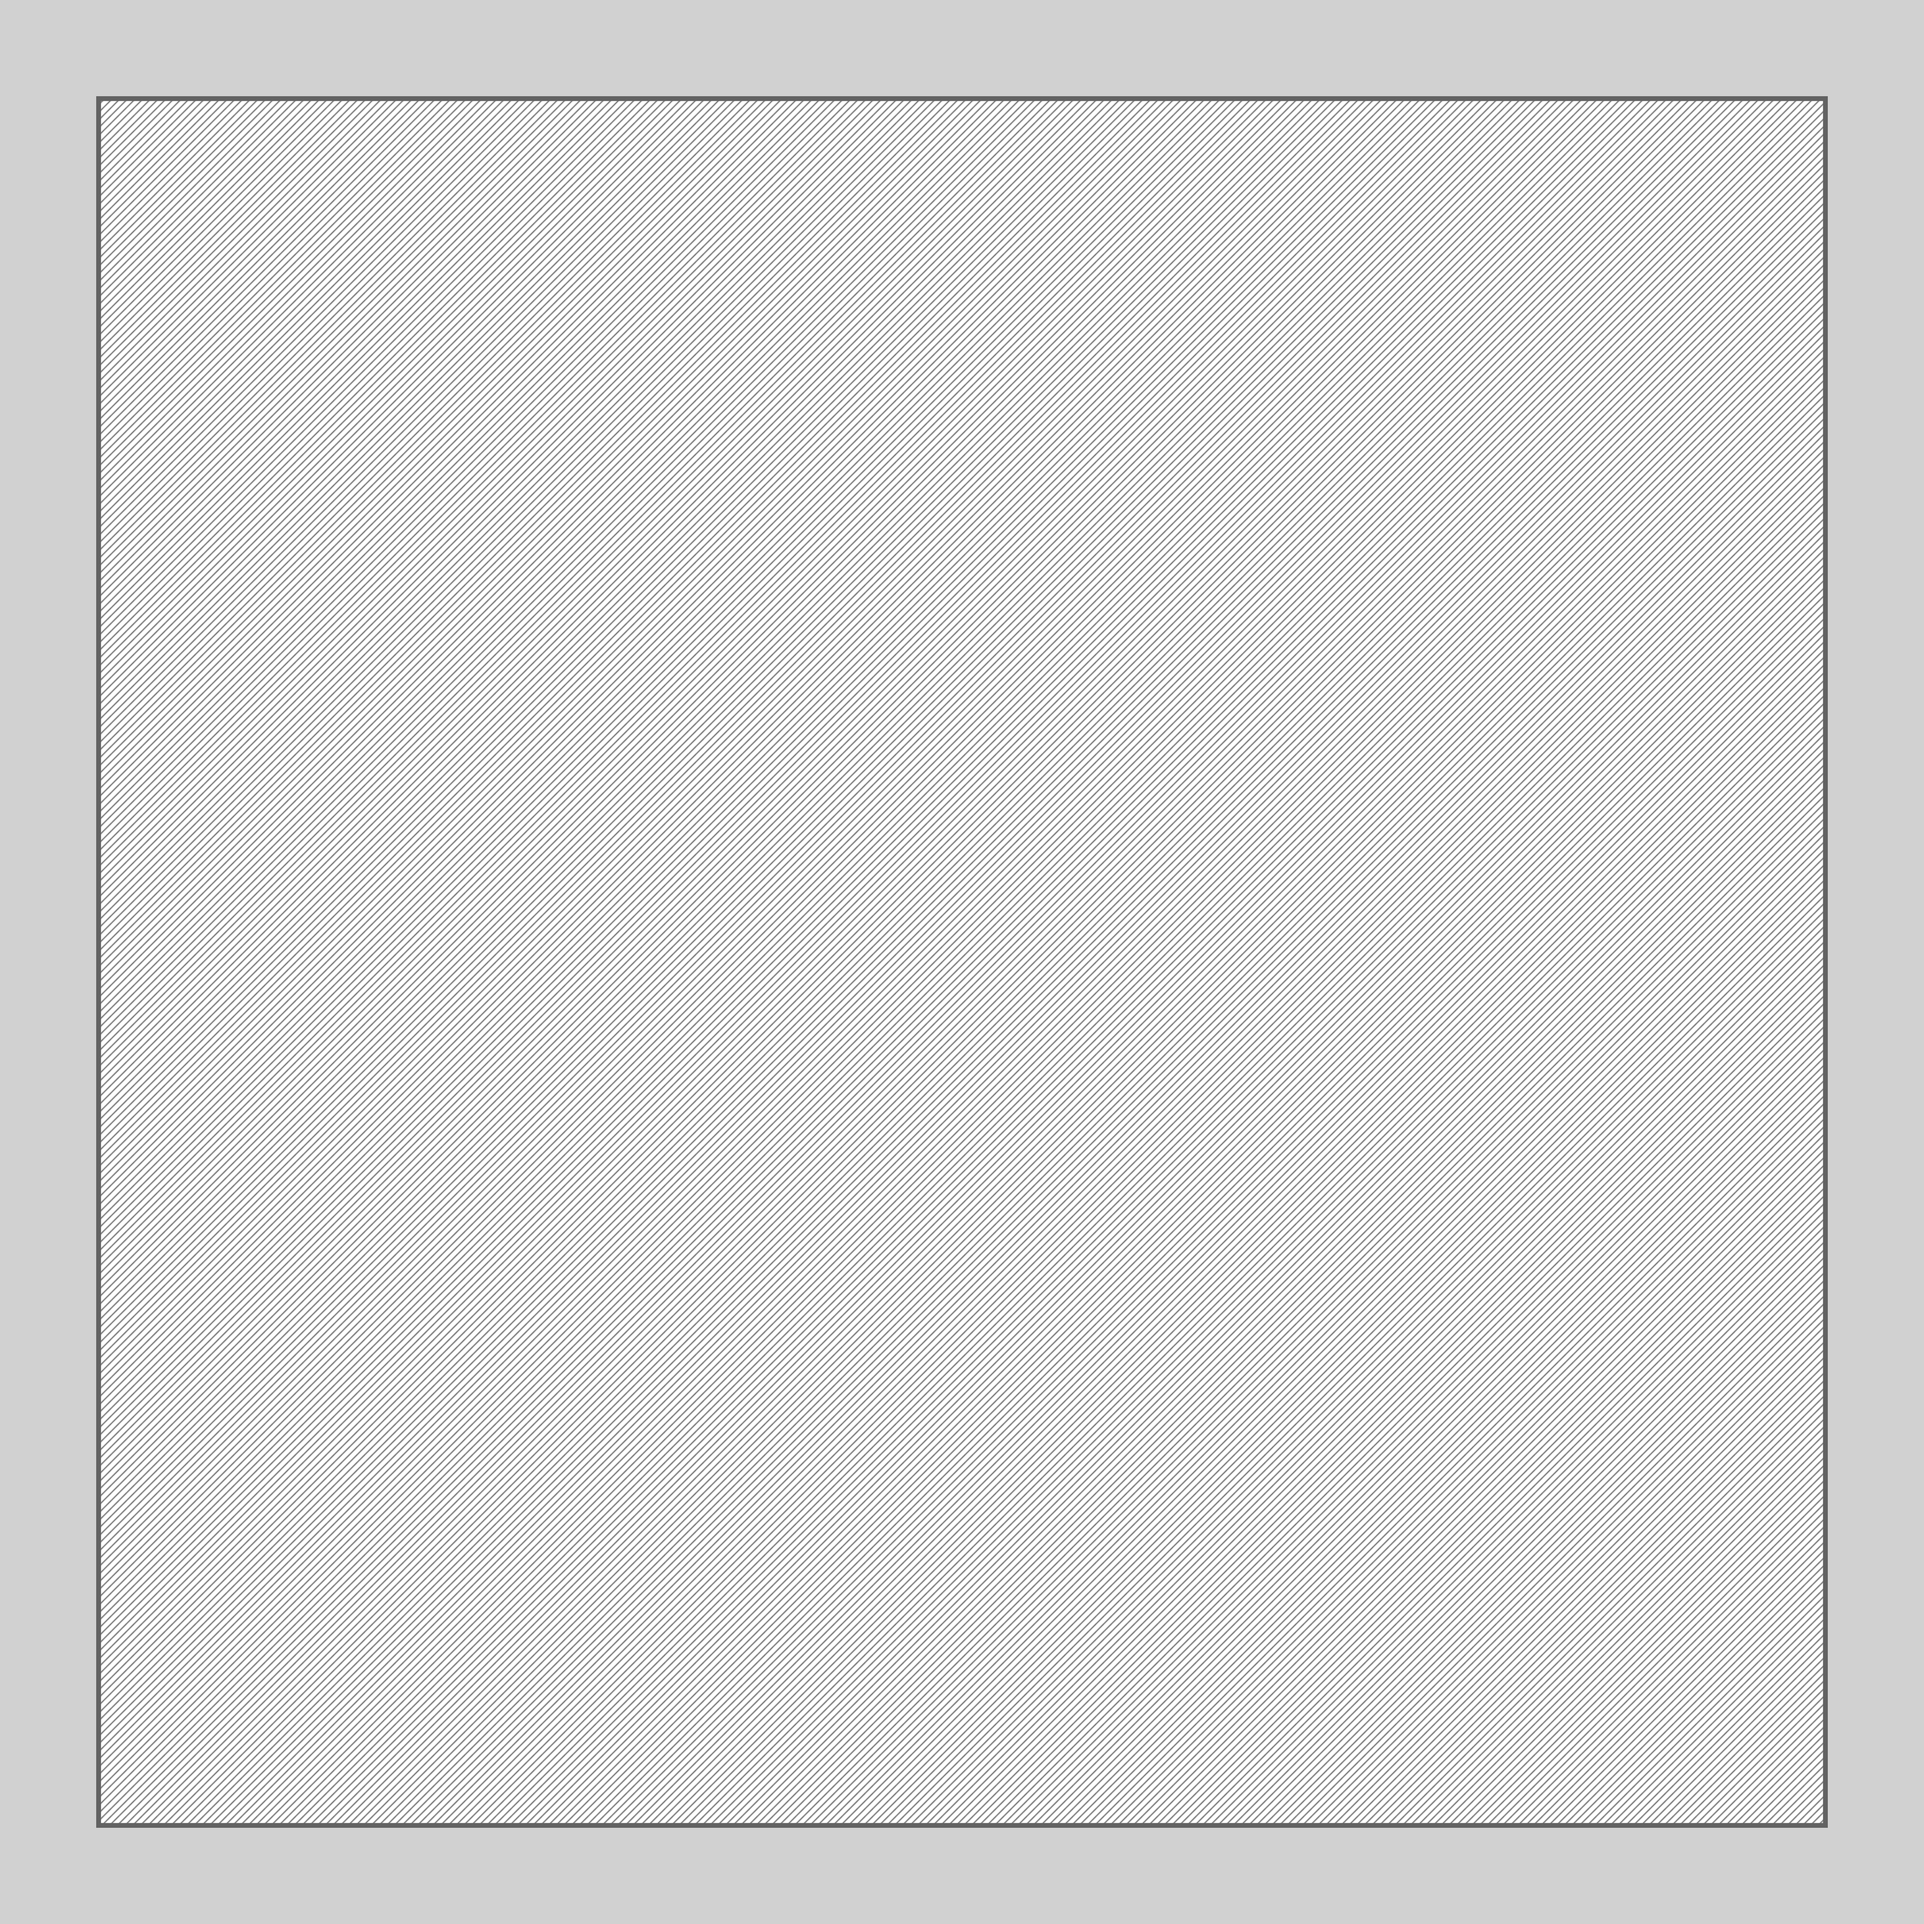
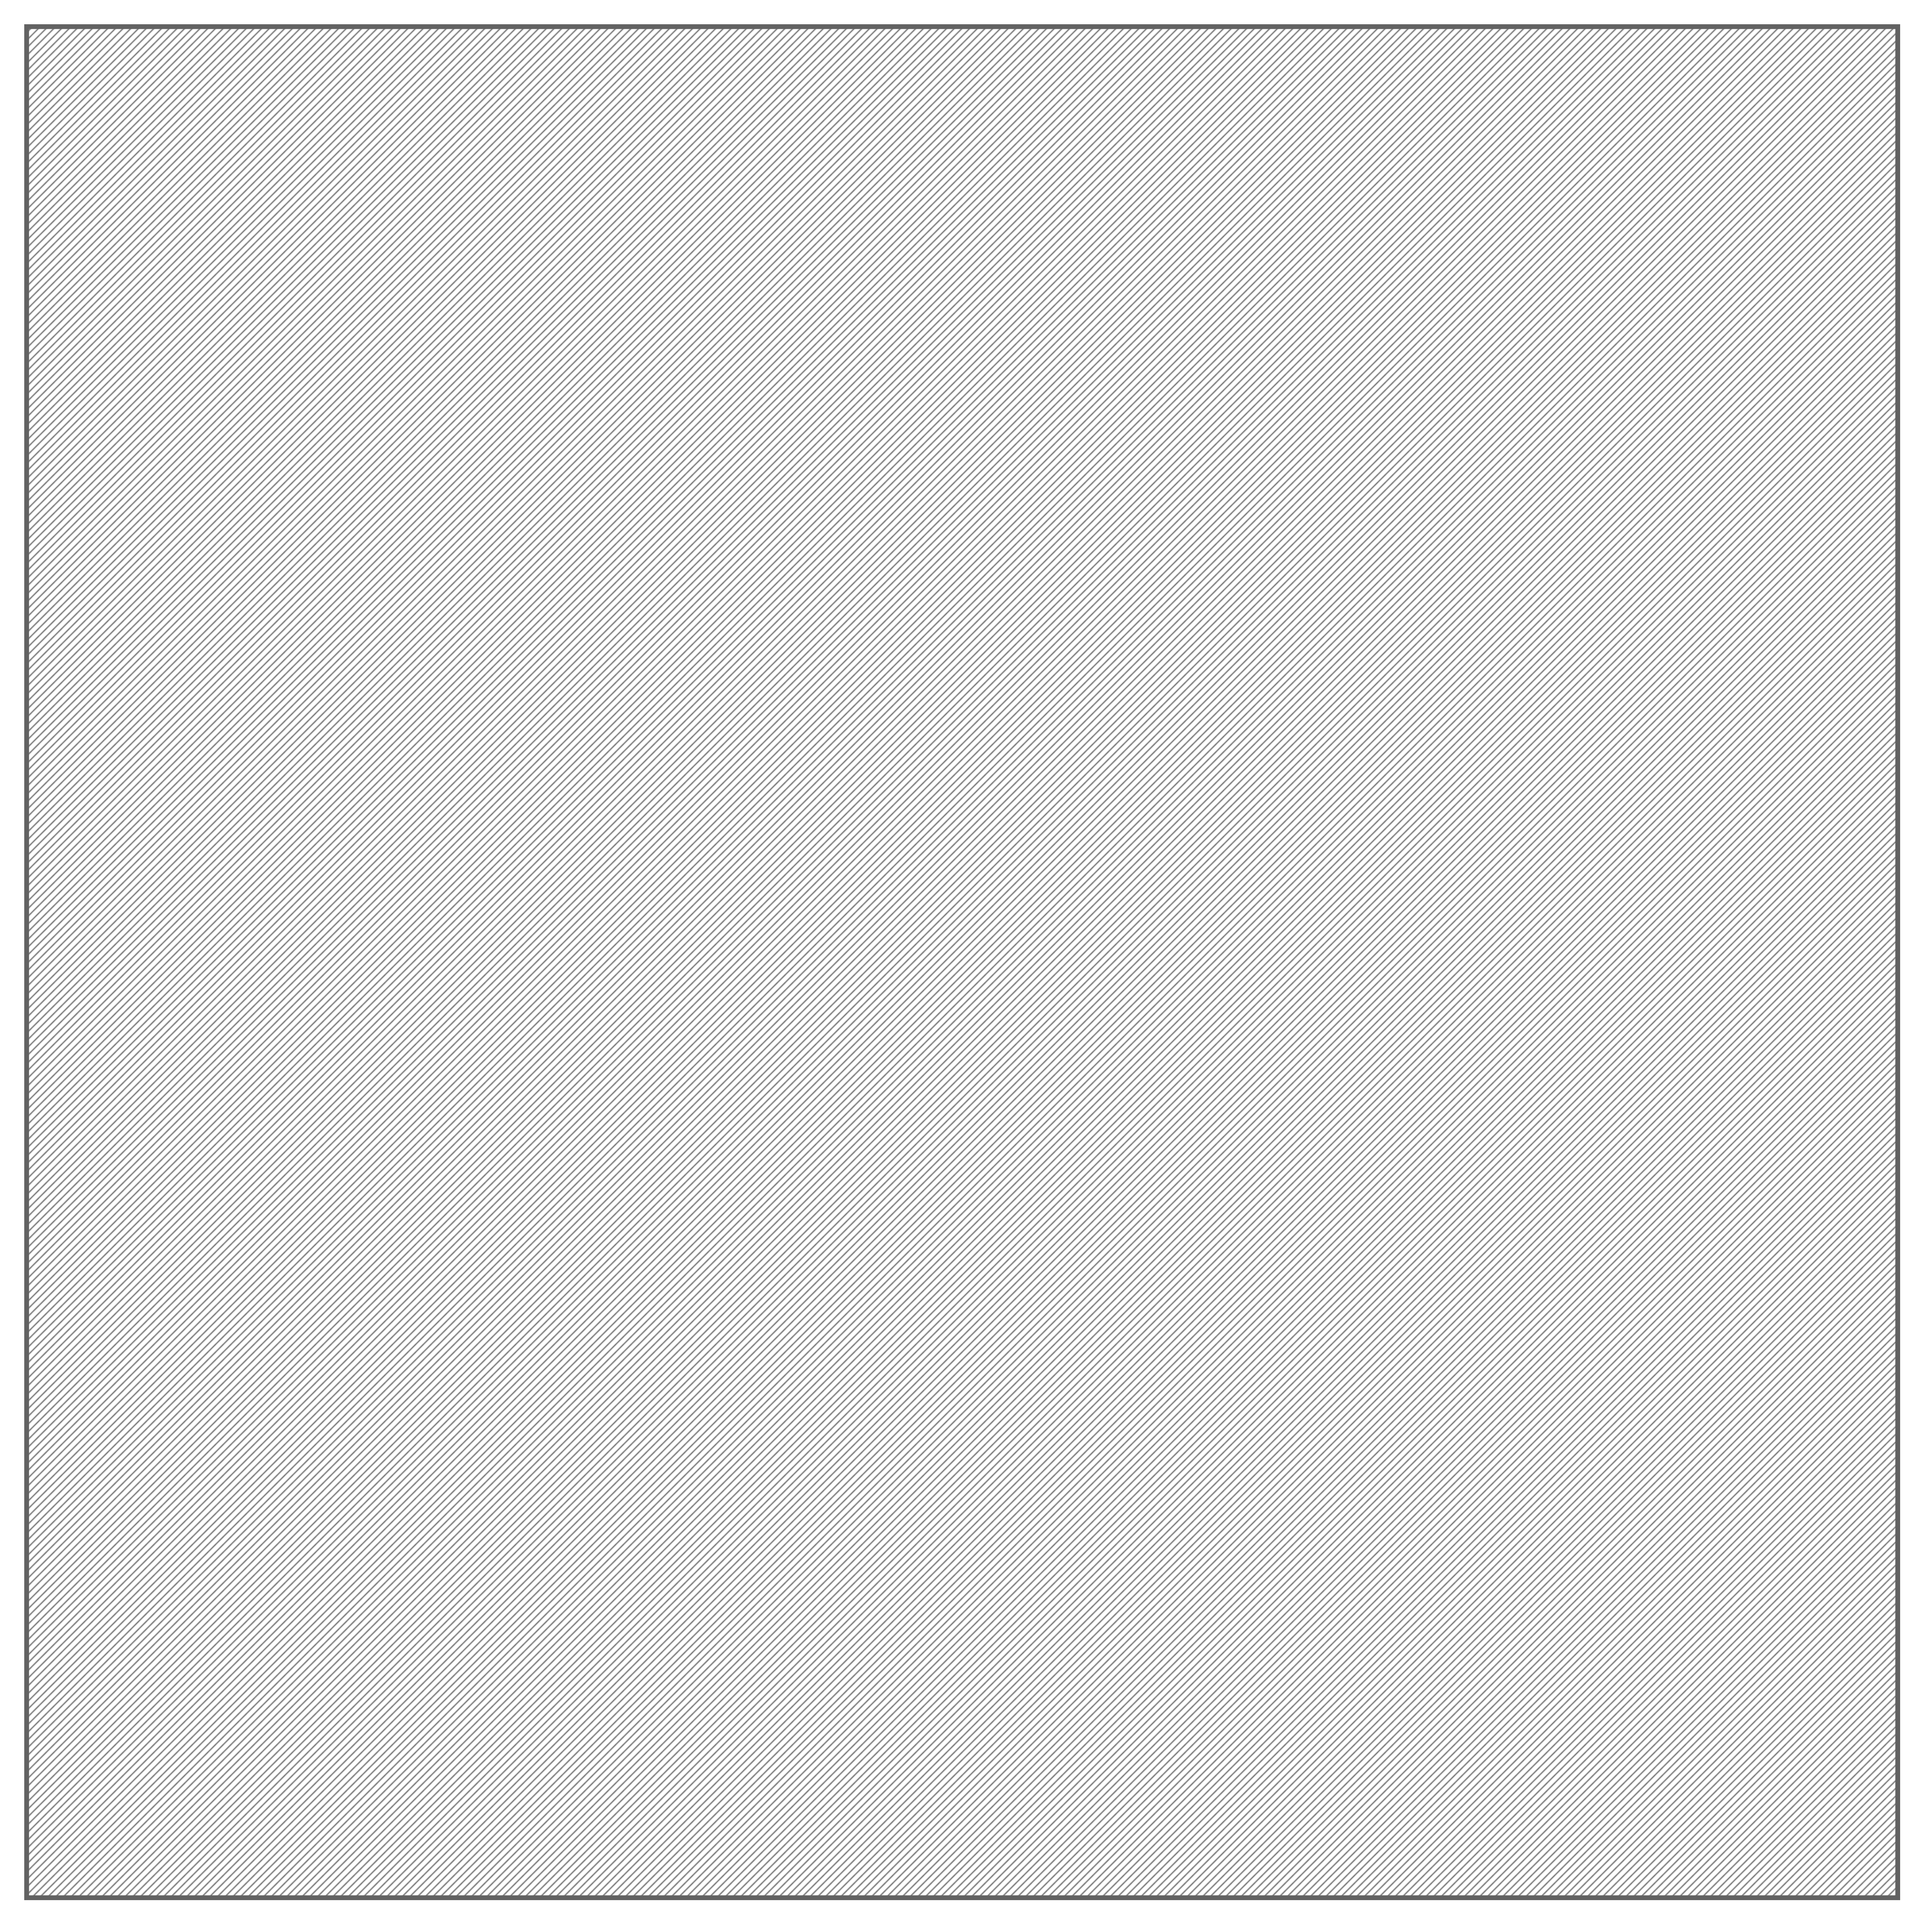
update touchpad

diff --git a/core/src/com/packt/snake/Screens/SingleGameScreen.java b/core/src/com/packt/snake/Screens/SingleGameScreen.java
@@ -7,6 +7,7 @@ import com.badlogic.gdx.graphics.GL20;
 import com.badlogic.gdx.graphics.OrthographicCamera;
 import com.badlogic.gdx.graphics.Texture;
 import com.badlogic.gdx.graphics.g2d.GlyphLayout;
+import com.badlogic.gdx.graphics.g2d.TextureRegion;
 import com.badlogic.gdx.input.GestureDetector;
 import com.badlogic.gdx.math.Vector2;
 import com.badlogic.gdx.scenes.scene2d.Actor;
@@ -19,6 +20,7 @@ import com.badlogic.gdx.scenes.scene2d.ui.Skin;
 import com.badlogic.gdx.scenes.scene2d.ui.TextButton;
 import com.badlogic.gdx.scenes.scene2d.ui.Touchpad;
 import com.badlogic.gdx.scenes.scene2d.utils.ChangeListener;
+import com.badlogic.gdx.scenes.scene2d.utils.TextureRegionDrawable;
 import com.badlogic.gdx.utils.Array;
 import com.badlogic.gdx.utils.viewport.FitViewport;
 import com.badlogic.gdx.utils.viewport.Viewport;
@@ -62,6 +64,7 @@ public class SingleGameScreen implements Screen{
     FlingDirection myFlingDirection;
     private Stage myStage;
     private Skin mySkin, mySkin2;
+    private Touchpad touchpad;
 
     private float gravityX;
     private float gravityY;
@@ -143,21 +146,26 @@ public class SingleGameScreen implements Screen{
             });
             myStage.addActor(button1);
 
-            /*
-            Touchpad touchpad = new Touchpad(150, mySkin2);
-            touchpad.setPosition(myAM.getvWidth()-100,5);
-            touchpad.addListener(new ChangeListener() {
-                @Override
-                public void changed(ChangeEvent event, Actor actor) {
-                    // This is run when anything is changed on this actor.
-                    float deltaX = ((Touchpad) actor).getKnobPercentX();
-                    float deltaY = ((Touchpad) actor).getKnobPercentY();
-                    System.out.println("===============x = "+ deltaX+"; y = "+deltaY);
+            Texture touchpadbase = new Texture("handlebase.png");
+            Texture knob = new Texture("handle.png");
+            TextureRegionDrawable baseRegion = new TextureRegionDrawable(new TextureRegion(touchpadbase,0,0,200,200));
+            TextureRegionDrawable knobRegion = new TextureRegionDrawable(new TextureRegion(knob,0,0,50,50));
+            Touchpad.TouchpadStyle style= new Touchpad.TouchpadStyle(baseRegion,knobRegion);
+            touchpad = new Touchpad(30,style);
+            touchpad.setBounds(myAM.getvWidth()-155,5,150,150);
 
+            touchpad.addListener(new InputListener(){
+
+                @Override
+                public void touchDragged(InputEvent event, float x, float y, int pointer) {
+                    super.touchDragged(event, x, y, pointer);
+                    float deltaX = touchpad.getKnobPercentX();
+                    float deltaY = touchpad.getKnobPercentY();
+                    System.out.println("===============x = "+ deltaX+"; y = "+deltaY);
                 }
             });
-            */
-            //myStage.addActor(touchpad);
+
+            myStage.addActor(touchpad);
 
         } else { //gravity
             Gdx.input.setInputProcessor(hud.stage);
@@ -325,8 +333,12 @@ public class SingleGameScreen implements Screen{
 
             if (myAM.controlMode == 3)
                 mySnake.setSettingDirection(getGravityDegree(gravityX,gravityY));
-            else
+            else if (myAM.controlMode == 1)
                 mySnake.setSettingDirection(directionDegree);
+            else {
+                getTouchpadDegree();
+                mySnake.setSettingDirection(directionDegree);
+            }
 
 
             for(int i=0;i<speedLimit;i++) {
@@ -364,7 +376,7 @@ public class SingleGameScreen implements Screen{
                 Snake snake = snakeList.get(i);
 
                 speedLimit = myAM.userdata.get(snake.getMyUsername())[1]+1;
-                if(myAM.userdata.get(snake.getMyUsername())[1] == 1){
+                if(myAM.userdata.get(snake.getMyUsername())[1] < 0){
                     if(snake.getBody().size > 3){
                         speedLimit = 1+myAM.userdata.get(snake.getMyUsername())[1];
                     }
@@ -426,7 +438,16 @@ public class SingleGameScreen implements Screen{
         return degree;
     }
 
+    private void getTouchpadDegree(){
+        if (touchpad.isTouched()){
+            float deltaX = touchpad.getKnobPercentX();
+            float deltaY = touchpad.getKnobPercentY();
+            int degree = computeDirectionDegree(deltaX,-deltaY);
+            directionDegree = degree;
+            System.out.println("x = "+ deltaX+"; y = "+deltaY+"; degree = "+degree);
 
+        }
+    }
     public int getGravityDegree(float gravityX, float gravityY){
         float myX = Gdx.input.getAccelerometerY();
         float myY = Gdx.input.getAccelerometerX();

diff --git a/core/src/com/packt/snake/MyAssetsManager.java b/core/src/com/packt/snake/MyAssetsManager.java
@@ -16,7 +16,7 @@ public class MyAssetsManager{
     //resource
     public final String SNAKEHEAD1 = "snakehead.png";
     public final String SNAKEBODY1 = "snakebody.png";
-    public final String MAP1 = "map5000.png";
+    public final String MAP1 = "map5001.png";
     public final String SKIN = "skin/comic-ui.json";
     public final String SKIN2 = "skin2/flat-earth-ui.json";
     public final String BACKGROUND1 = "bg.png";

diff --git a/core/src/com/packt/snake/sprites/Snake.java b/core/src/com/packt/snake/sprites/Snake.java
@@ -193,7 +193,7 @@ public class Snake implements Disposable{
             //headPosX = Gdx.graphics.getWidth() - SNAKE_MOVEMENT;
             return true;
         }
-        if (headPosY +50 >= myAm.mapsize){
+        if (headPosY +100 >= myAm.mapsize){
             //headPosY = 0;
             return true;
         }
